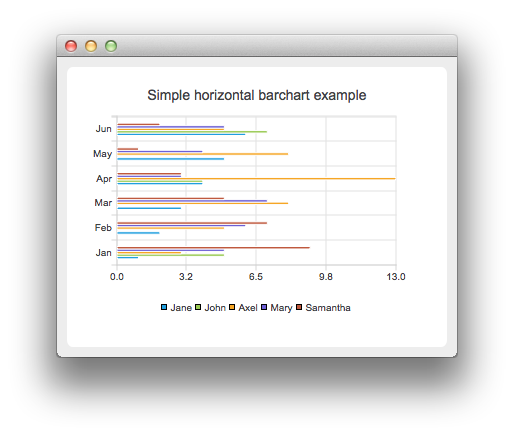
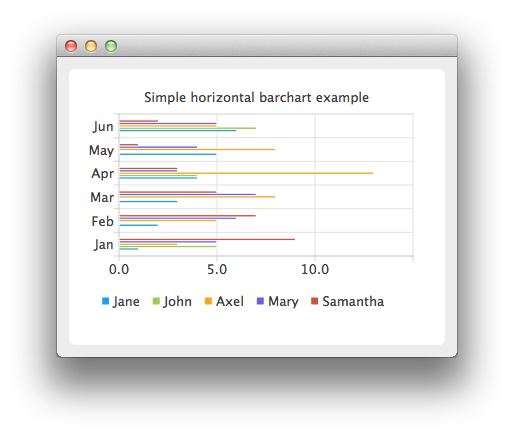
Apply nice numbers on Horizontal bar chart example

Changed region(s): [[0.1556, 0.2683, 0.8093, 0.7156], [0.2802, 0.2087, 0.716, 0.2385]]

diff --git a/examples/horizontalbarchart/main.cpp b/examples/horizontalbarchart/main.cpp
@@ -25,6 +25,7 @@
 #include <QBarSet>
 #include <QLegend>
 #include <QBarCategoryAxis>
+#include <QValueAxis>
 #include <QHorizontalBarSeries>
 
 QTCOMMERCIALCHART_USE_NAMESPACE
@@ -66,10 +67,12 @@ int main(int argc, char *argv[])
 //![4]
     QStringList categories;
     categories << "Jan" << "Feb" << "Mar" << "Apr" << "May" << "Jun";
-    QBarCategoryAxis *axis = new QBarCategoryAxis();
-    axis->append(categories);
-    chart->createDefaultAxes();
-    chart->setAxisY(axis, series);
+    QBarCategoryAxis *axisY = new QBarCategoryAxis();
+    axisY->append(categories);
+    chart->setAxisY(axisY, series);
+    QValueAxis *axisX = new QValueAxis();
+    chart->setAxisX(axisX, series);
+    axisX->applyNiceNumbers();
 //![4]
 
 //![5]
